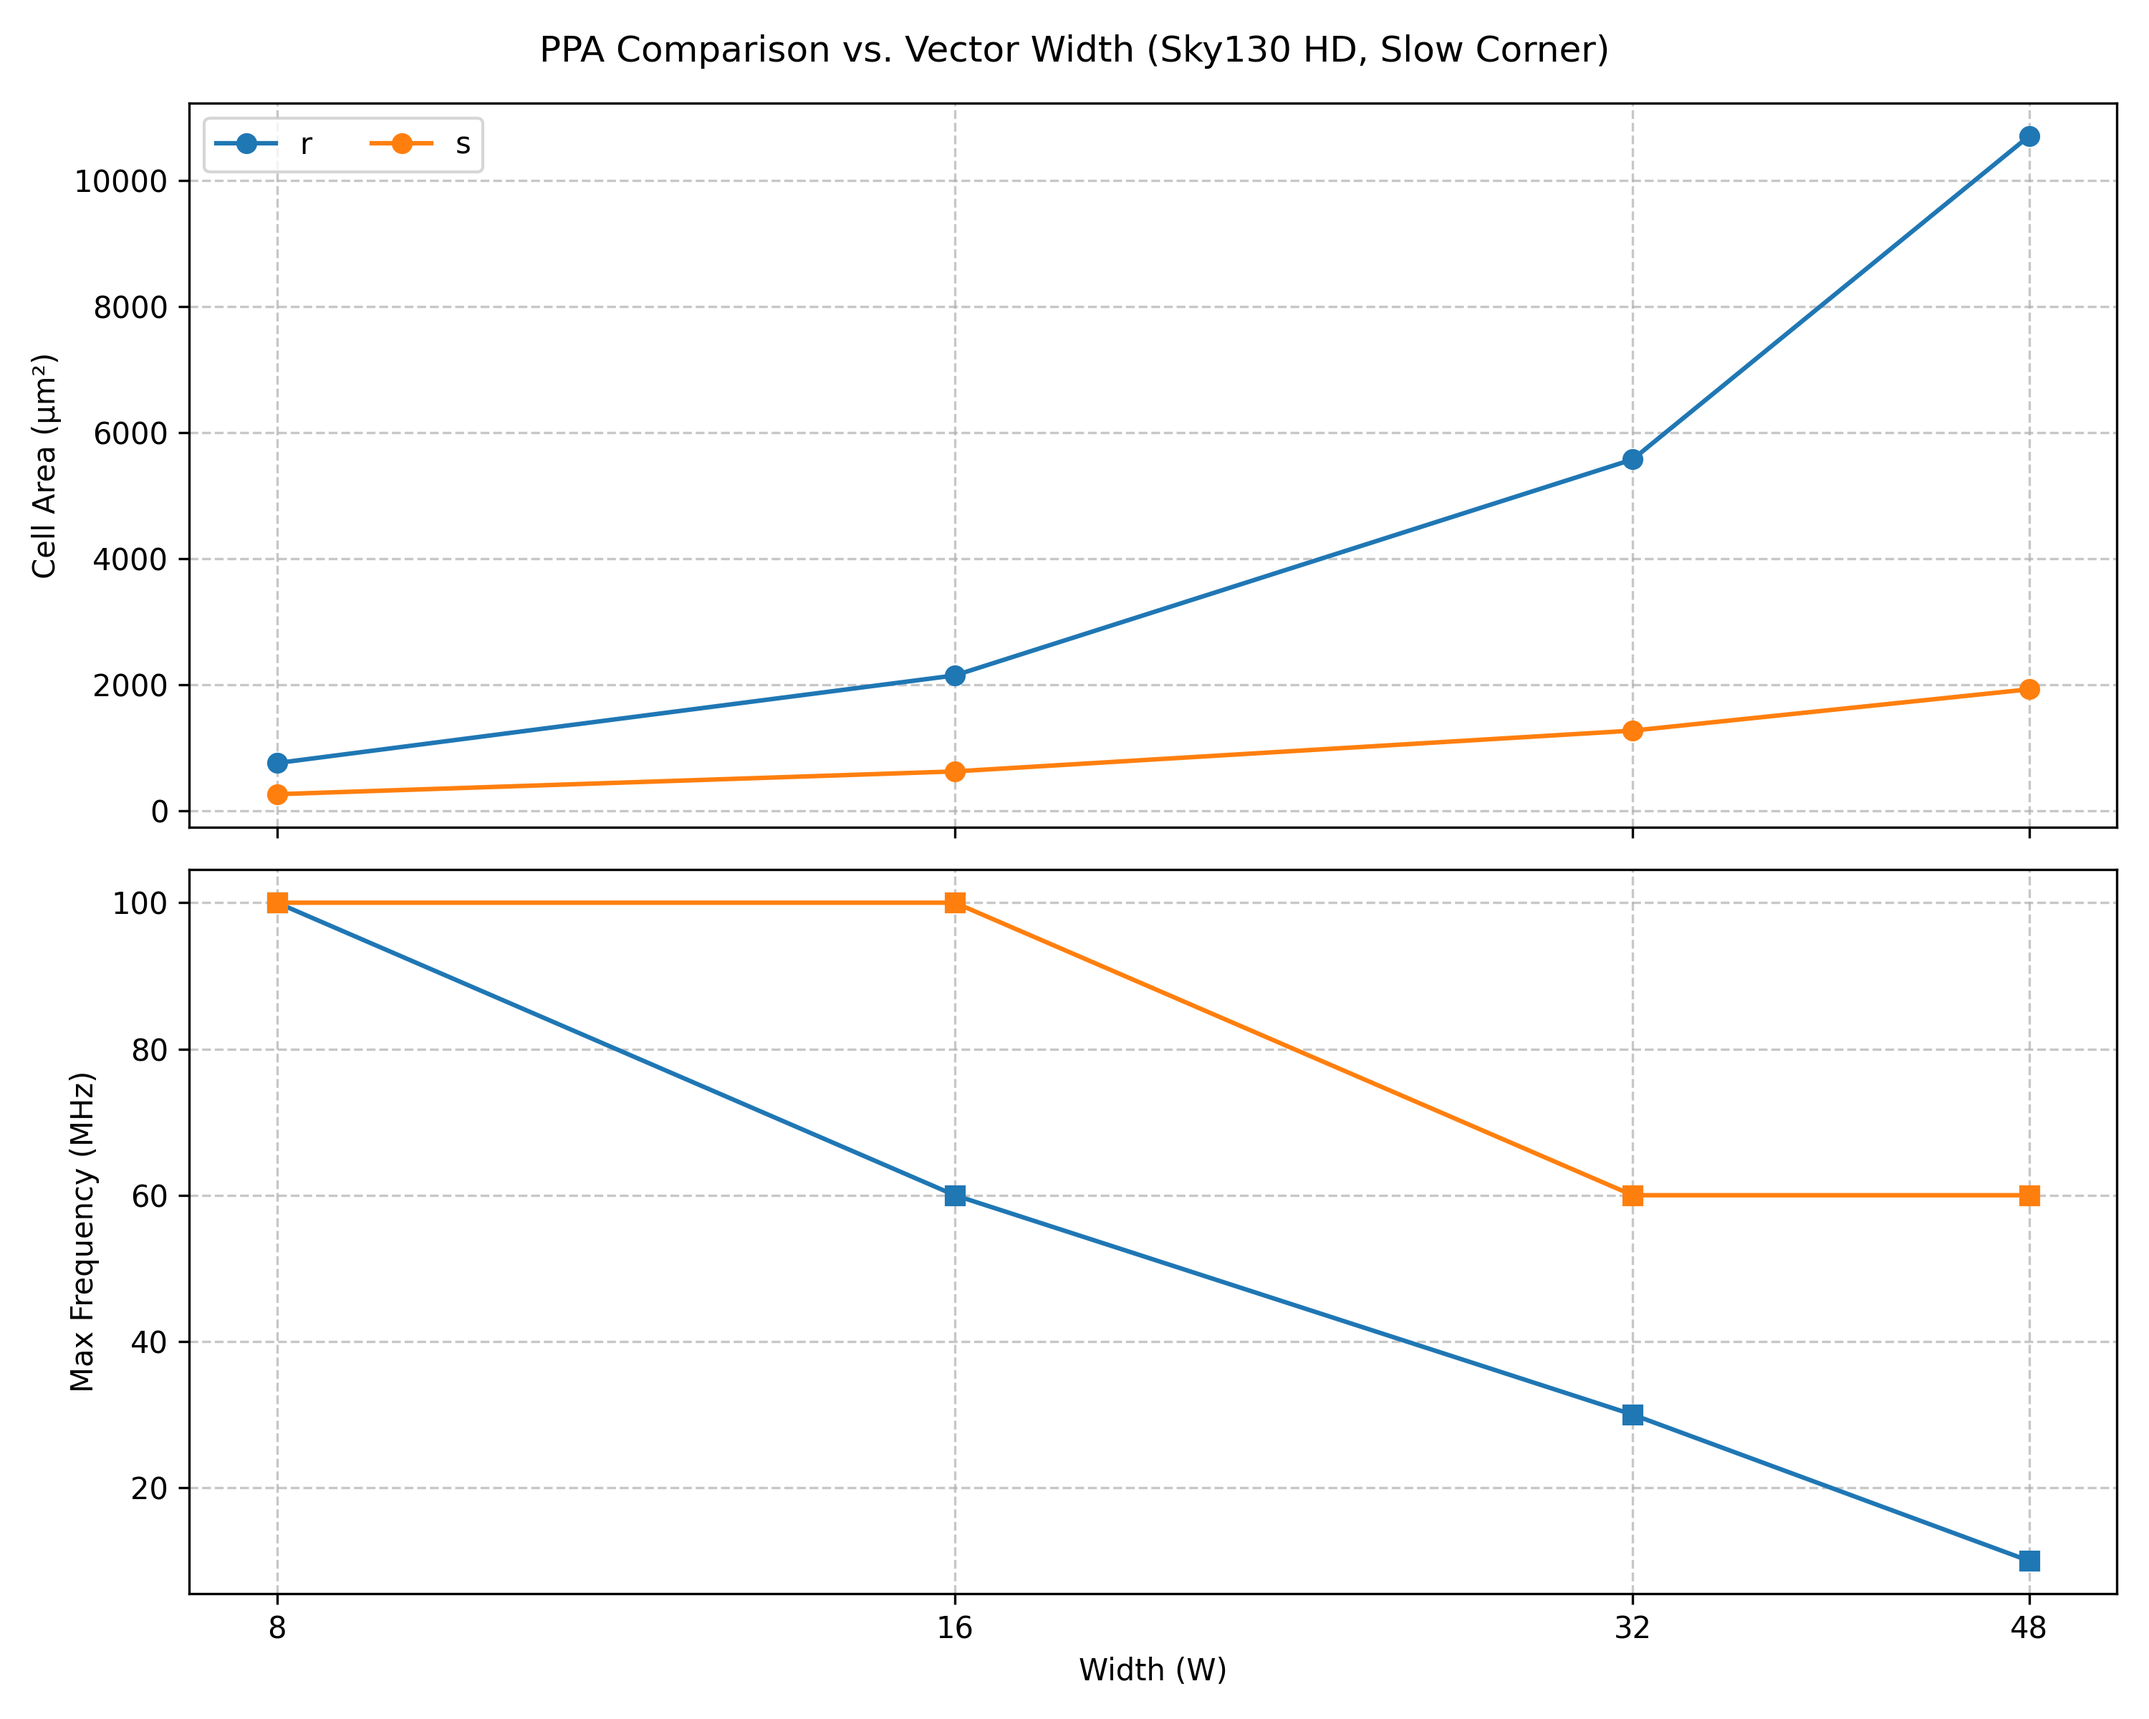
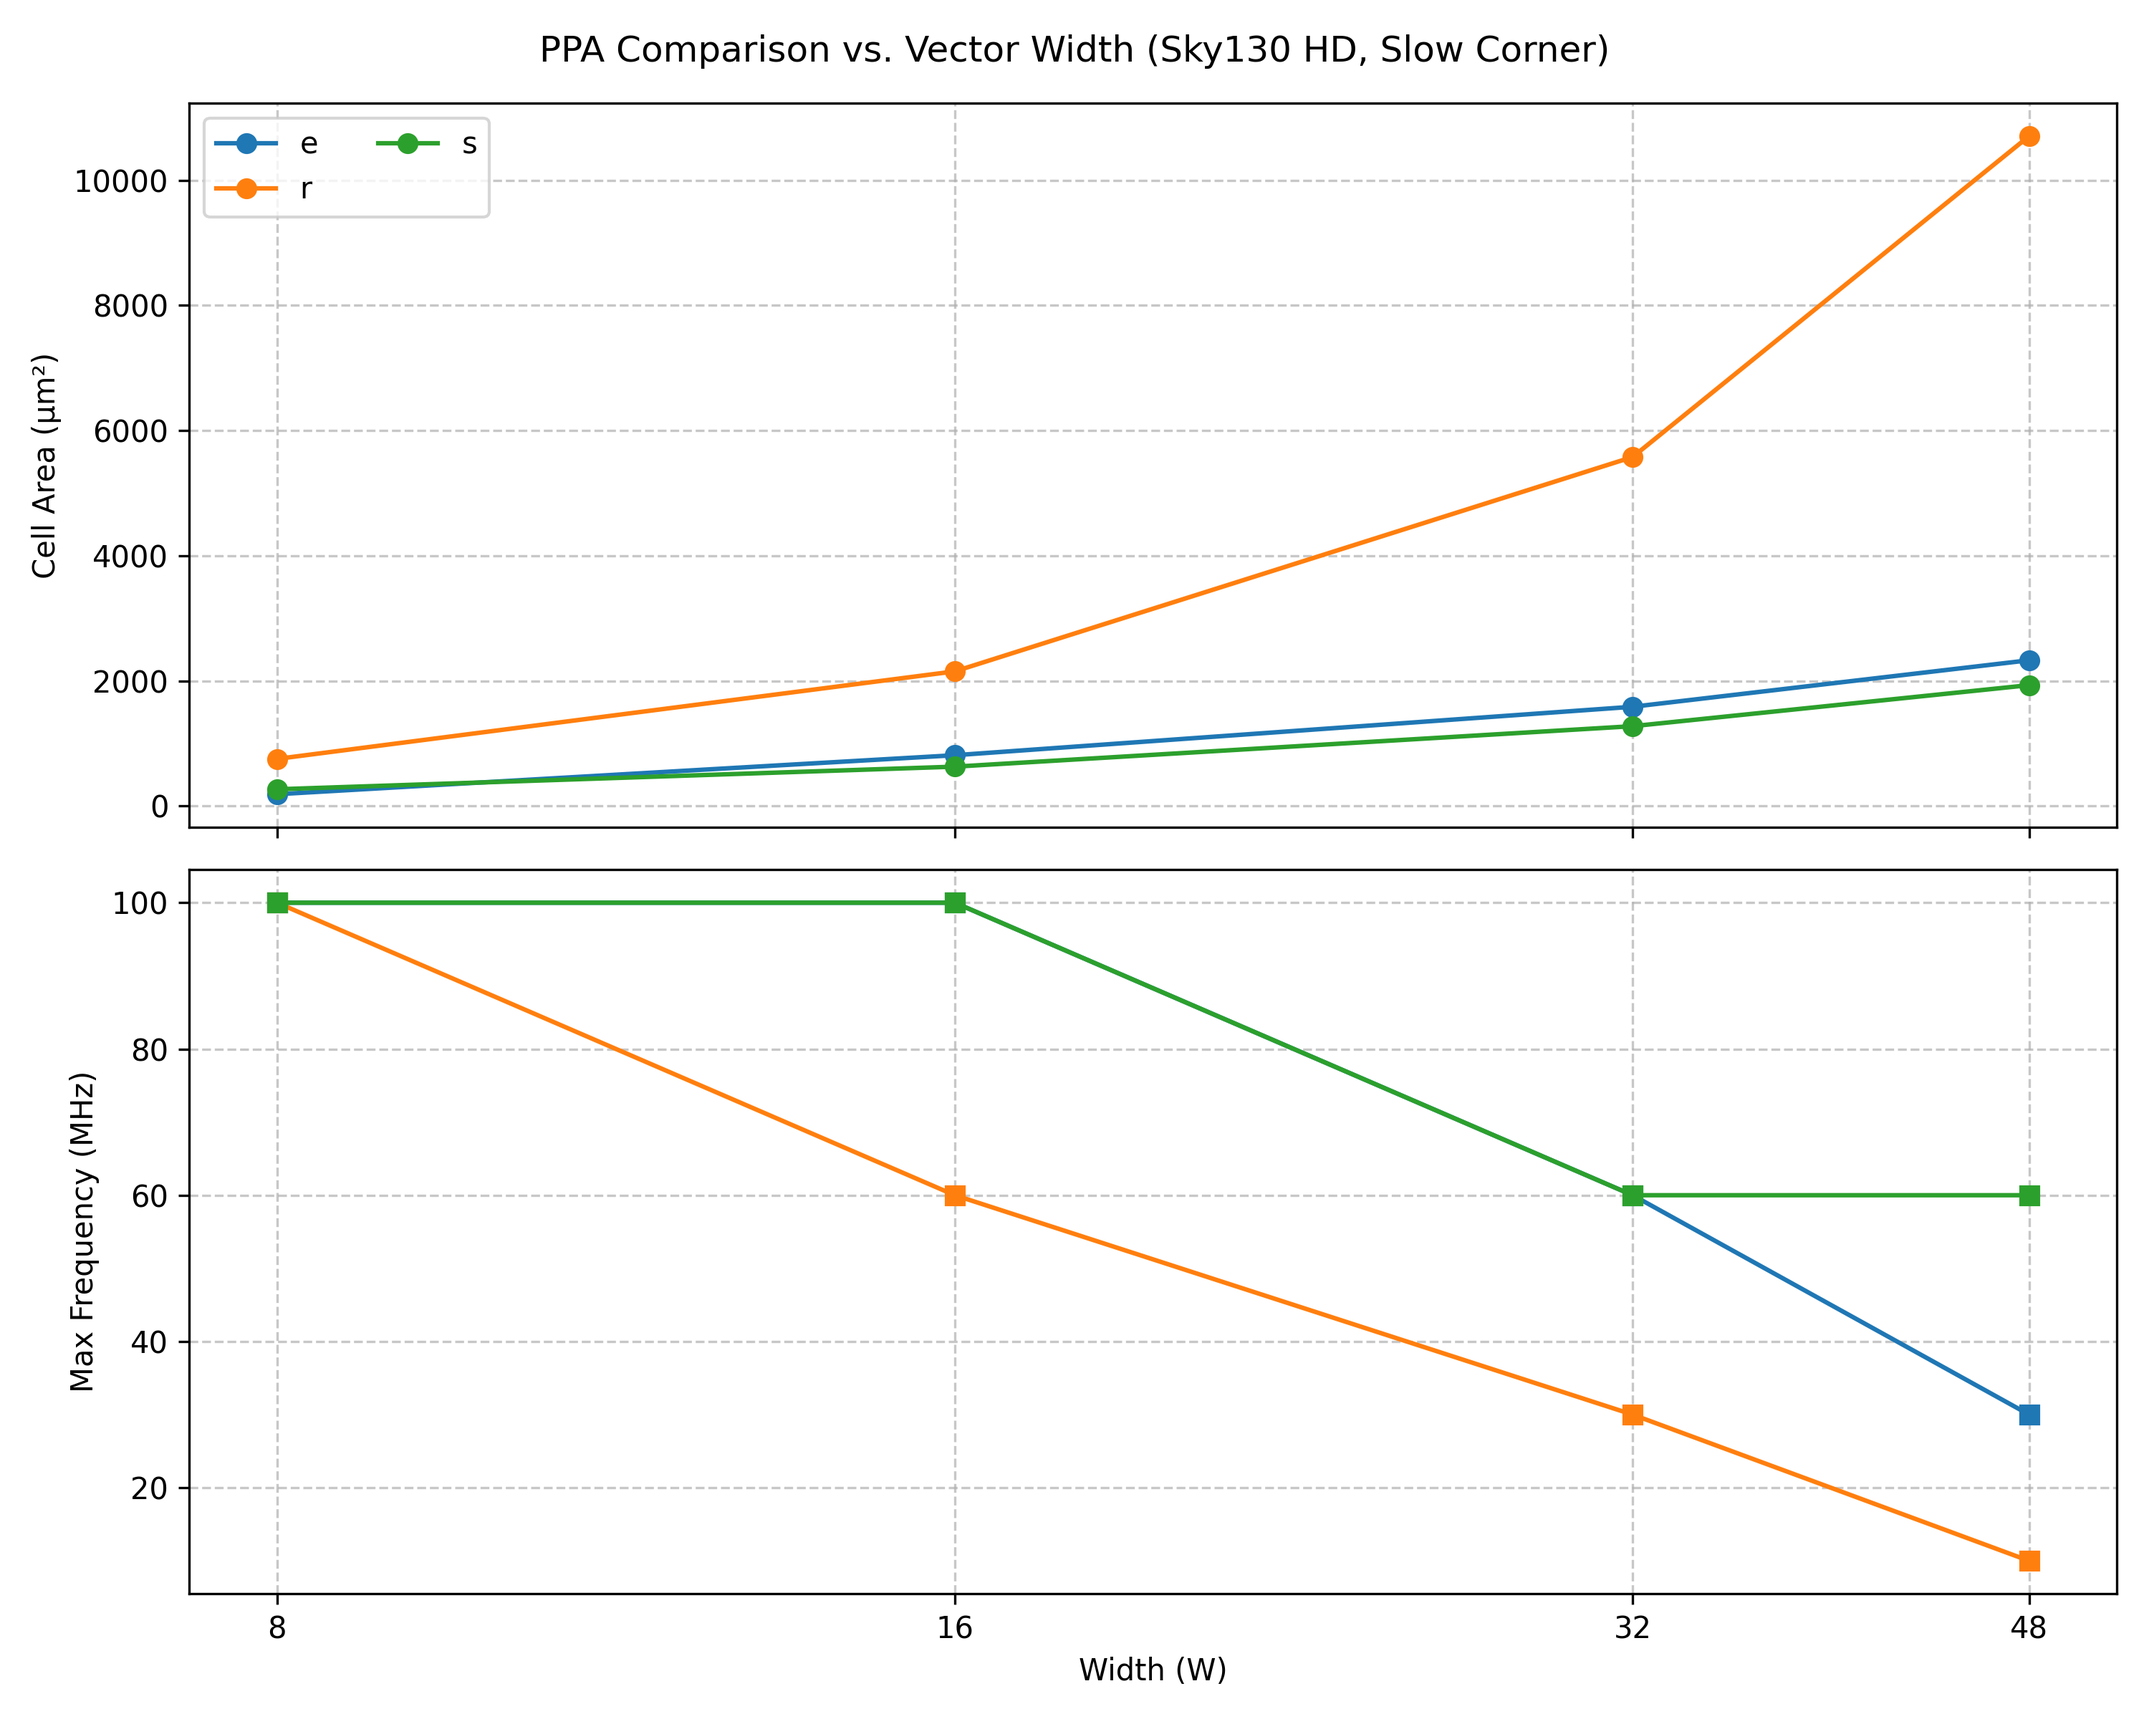
foo

diff --git a/src/syn/cli.py b/src/syn/cli.py
@@ -35,7 +35,7 @@ from typing import TypeAlias
 plist: TypeAlias = dict[str, int | str]
 
 # Trials to run
-runlist = ["r", "s"]
+runlist = ["e", "r", "s"]
 # runlist = rtl.ALL_PROJECTS
 
 # W_SWEEP = range(8, 128, 8)

diff --git a/src/common/rtl.py b/src/common/rtl.py
@@ -45,7 +45,6 @@ _PROJECTS = {
     "e": [
         "e.sv",
         "e_multi.sv",
-        "e_multi_cell.sv",
         "e_single.sv",
         "e_priority.sv",
     ],
